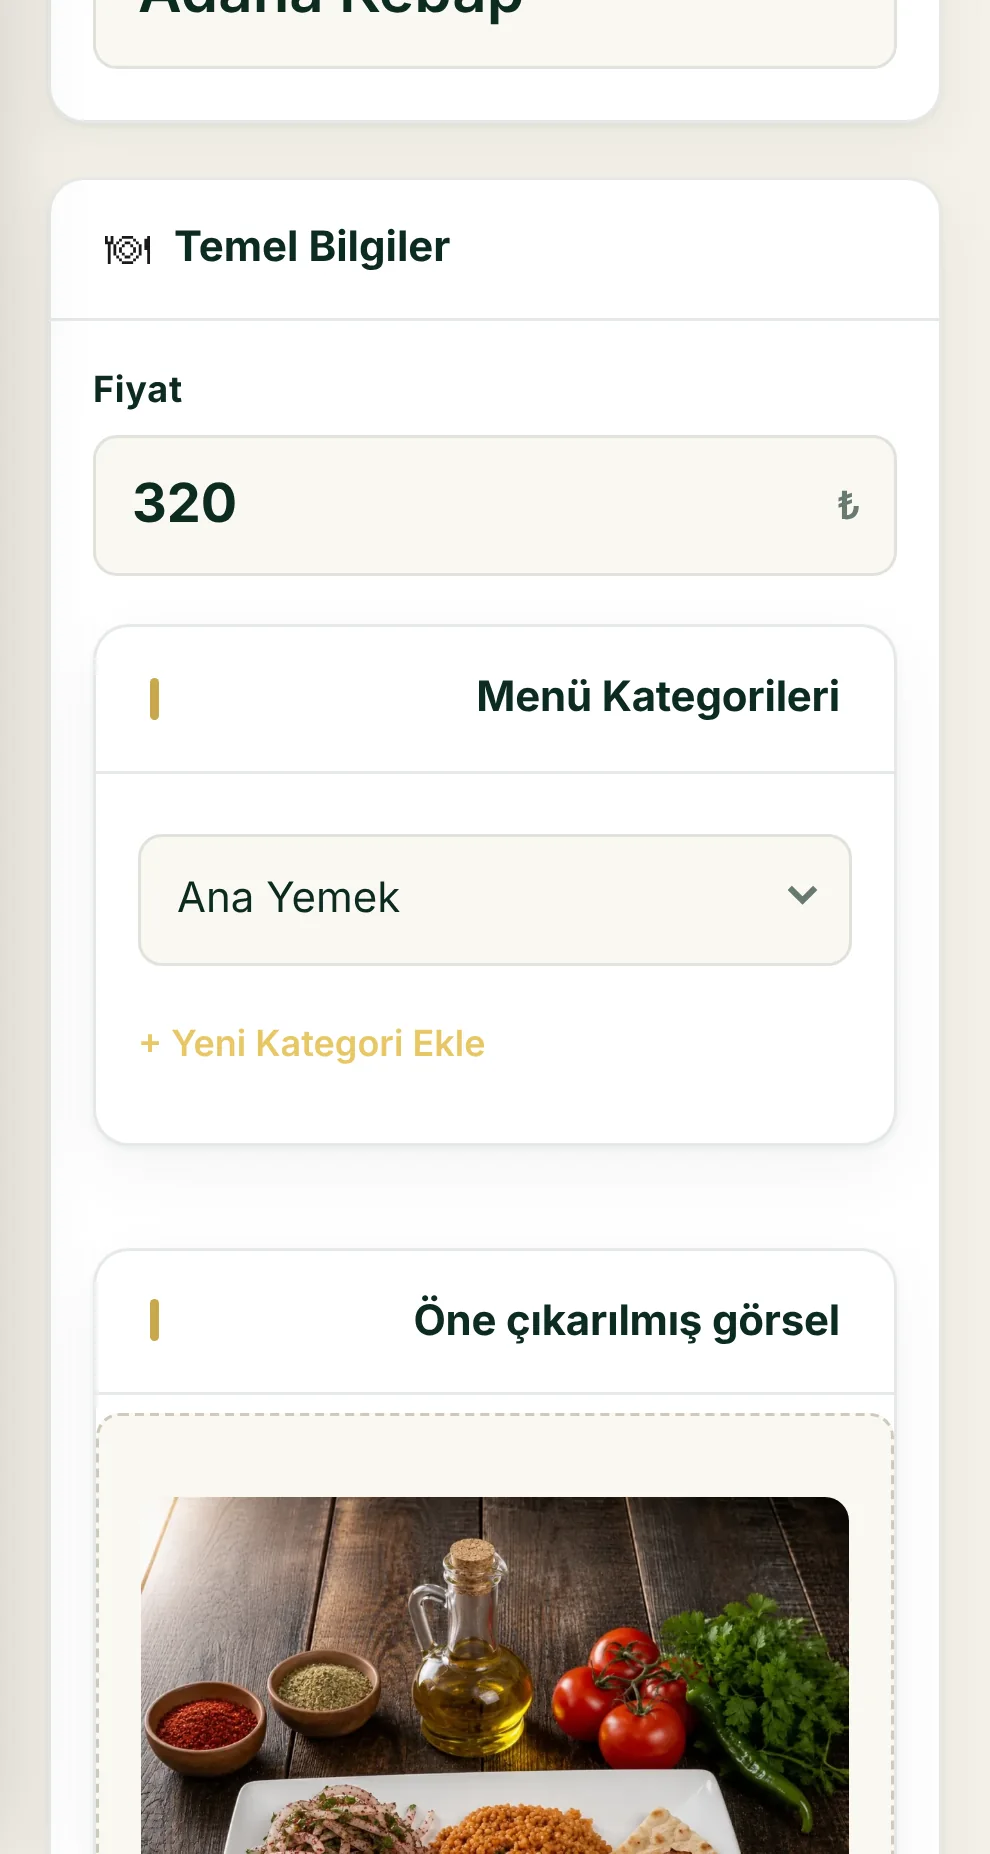
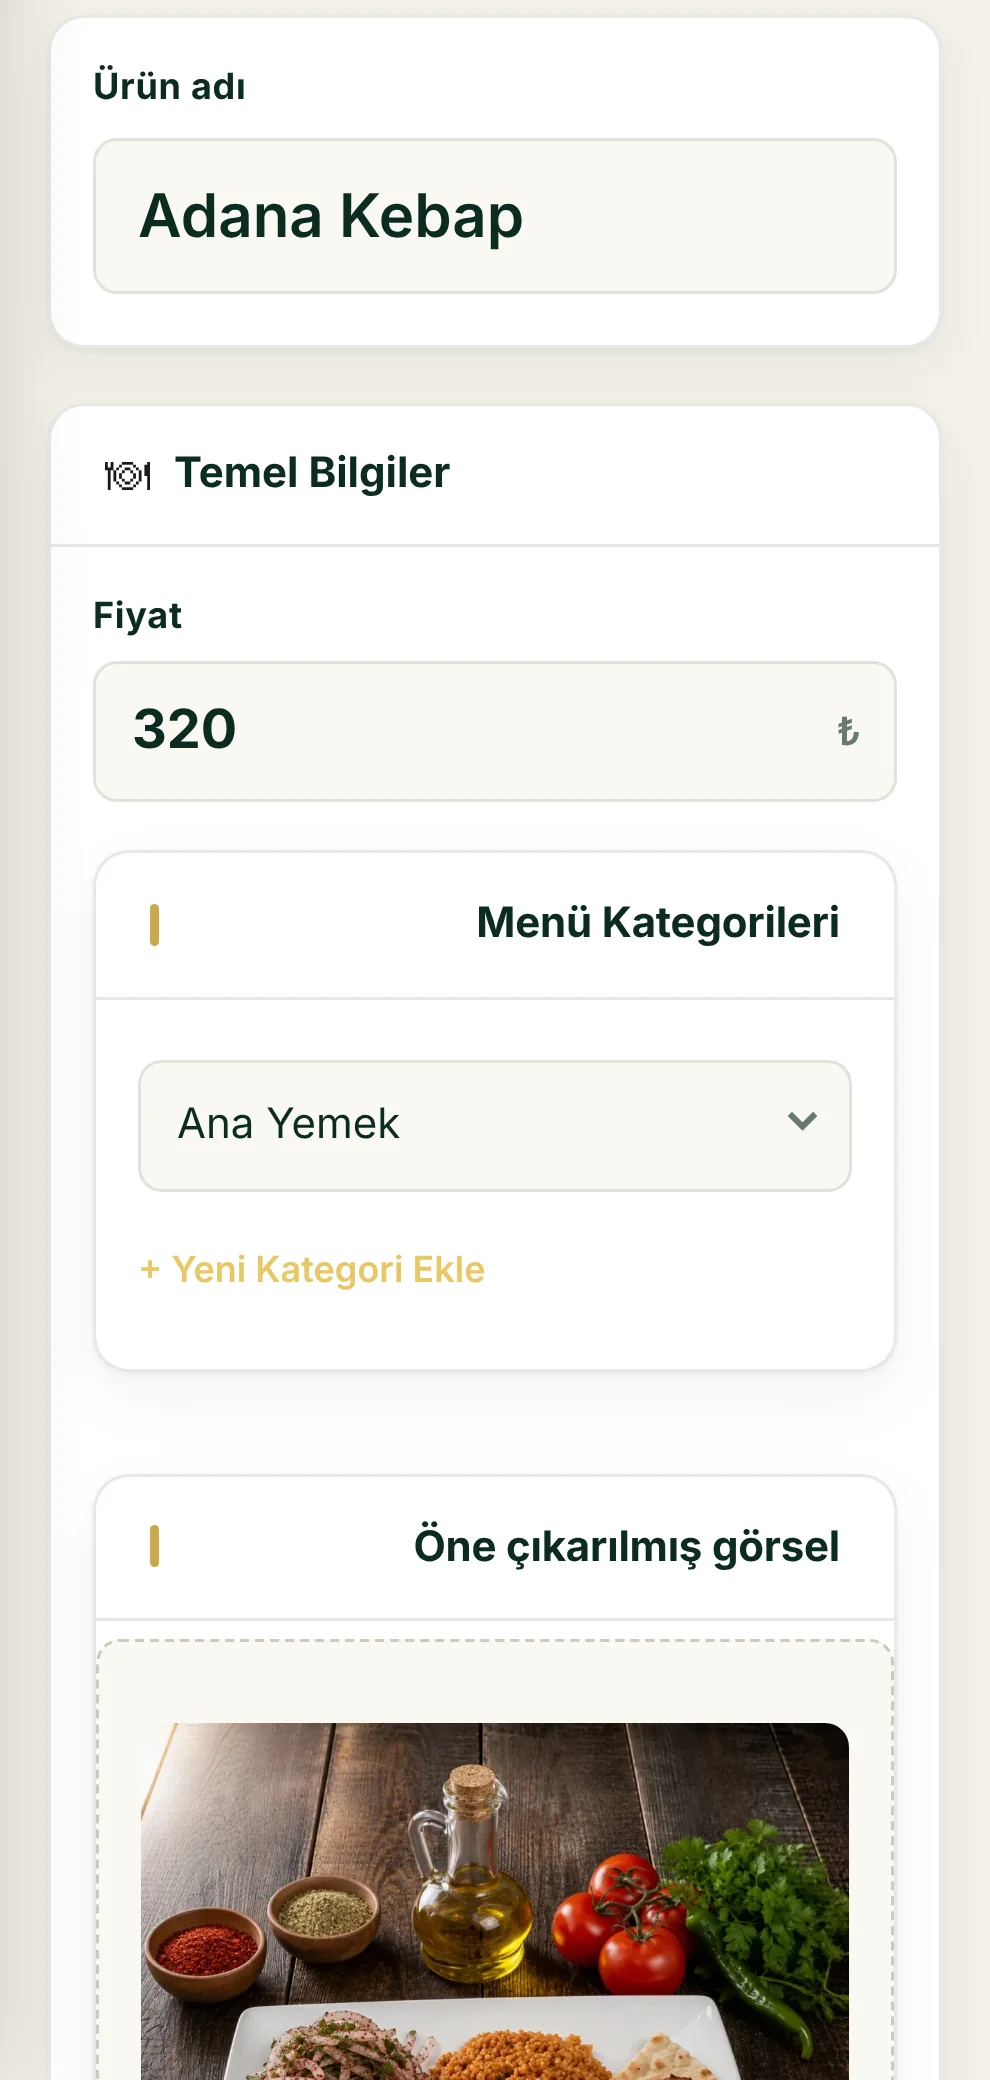
Restoran Menü: mobil Nasıl çalışır - kısa başlık, üste yaslı büyük telefon, 01/04 ve ilerleme çubuğu, kaydırma ipucu, düzgün kırpılmış panel ekranı
Claude-Session: https://claude.ai/code/session_01FBw9rV6ebgf9f6twCzCQ1c

diff --git a/moduller/restoran-menu/index.html b/moduller/restoran-menu/index.html
@@ -245,7 +245,7 @@
         <div class="qrmo-v3-glow" aria-hidden="true"></div>
         <div class="qrmo-v3-stage">
           <figure class="qrmo-v3-screen" data-v3-screen="0" data-kind="window" role="img" aria-label="Sizin yönetim ekranınız: Ürün düzenleme ekranı: ürün adı, fiyat, kategori ve ürün fotoğrafı, ekran 1 / 4" aria-hidden="true">
-            <div class="qrmo-v3-fit"><div class="qm-win qm-win--shot"><div class="qm-win-bar"><span class="qm-win-dots"><i></i><i></i><i></i></span><span class="qm-win-t">Menü Yönetimi › Ürünü düzenle</span></div><picture><source media="(max-width: 639px)" srcset="../../assets/modules/restoran-menu/m-panel-urun-duzenle.webp" width="990" height="1854"><img class="qm-shot" src="../../assets/modules/restoran-menu/panel-urun-duzenle.webp" width="1568" height="1344" alt="" decoding="async" loading="eager" draggable="false"></picture></div></div>
+            <div class="qrmo-v3-fit"><div class="qm-win qm-win--shot"><div class="qm-win-bar"><span class="qm-win-dots"><i></i><i></i><i></i></span><span class="qm-win-t">Menü Yönetimi › Ürünü düzenle</span></div><picture><source media="(max-width: 639px)" srcset="../../assets/modules/restoran-menu/m-panel-urun-duzenle.webp" width="990" height="2080"><img class="qm-shot" src="../../assets/modules/restoran-menu/panel-urun-duzenle.webp" width="1568" height="1344" alt="" decoding="async" loading="eager" draggable="false"></picture></div></div>
             <span class="qrmo-v3-chip qrmo-v3-chip--a" aria-hidden="true"><svg viewBox="0 0 24 24" fill="none" stroke="currentColor" stroke-width="2.6" stroke-linecap="round" stroke-linejoin="round" aria-hidden="true" focusable="false"><path d="m5 12.5 4.5 4.5L19 7.5"/></svg><span>Fiyat panelde değişir</span></span>
             <span class="qrmo-v3-chip qrmo-v3-chip--b" aria-hidden="true"><svg viewBox="0 0 24 24" fill="none" stroke="currentColor" stroke-width="2.6" stroke-linecap="round" stroke-linejoin="round" aria-hidden="true" focusable="false"><path d="m5 12.5 4.5 4.5L19 7.5"/></svg><span>CSV ile toplu aktarım</span></span>
           </figure>
@@ -309,9 +309,10 @@
       <div class="qrmo-v3-flow-panel">
         <header class="qrmo-v3-flow-head">
           <p class="qrmo-v3-eyebrow">NASIL ÇALIŞIR</p>
-          <h2 class="qrmo-v3-h2" id="qrmo-v3-flow-h">Menünüzü yönetin, misafir güncel halini görsün</h2>
+          <h2 class="qrmo-v3-h2" id="qrmo-v3-flow-h">Panelde değiştirin, masada görünsün.</h2>
         </header>
         <div class="qrmo-v3-flow-grid">
+          <p class="qrmo-v3-fhint" aria-hidden="true">Kaydırın <svg viewBox="0 0 24 24" fill="none" stroke="currentColor" stroke-width="2" stroke-linecap="round" stroke-linejoin="round"><path d="M12 5v14M6 13l6 6 6-6"/></svg></p>
           <ol class="qrmo-v3-steps">
             <li class="qrmo-v3-step is-active" data-v3-step="0" tabindex="0">
               <span class="qrmo-v3-step-n" aria-hidden="true">01<span class="qrmo-v3-step-who"><i class="qrmo-v3-sep"> · </i>SİZ · YÖNETİM PANELİ</span></span>
@@ -343,7 +344,7 @@
         <div class="qrmo-v3-glow" aria-hidden="true"></div>
         <div class="qrmo-v3-stage">
           <figure class="qrmo-v3-screen is-active" data-v3-screen="0" data-kind="window" role="img" aria-label="Sizin yönetim ekranınız: Ürün düzenleme ekranı: ürün adı, fiyat, kategori ve ürün fotoğrafı, ekran 1 / 4">
-            <div class="qrmo-v3-fit"><div class="qm-win qm-win--shot"><div class="qm-win-bar"><span class="qm-win-dots"><i></i><i></i><i></i></span><span class="qm-win-t">Menü Yönetimi › Ürünü düzenle</span></div><picture><source media="(max-width: 639px)" srcset="../../assets/modules/restoran-menu/m-panel-urun-duzenle.webp" width="990" height="1854"><img class="qm-shot" src="../../assets/modules/restoran-menu/panel-urun-duzenle.webp" width="1568" height="1344" alt="" decoding="async" loading="eager" draggable="false"></picture></div></div>
+            <div class="qrmo-v3-fit"><div class="qm-win qm-win--shot"><div class="qm-win-bar"><span class="qm-win-dots"><i></i><i></i><i></i></span><span class="qm-win-t">Menü Yönetimi › Ürünü düzenle</span></div><picture><source media="(max-width: 639px)" srcset="../../assets/modules/restoran-menu/m-panel-urun-duzenle.webp" width="990" height="2080"><img class="qm-shot" src="../../assets/modules/restoran-menu/panel-urun-duzenle.webp" width="1568" height="1344" alt="" decoding="async" loading="eager" draggable="false"></picture></div></div>
           </figure>
           <figure class="qrmo-v3-screen" data-v3-screen="1" data-kind="phone" role="img" aria-label="Misafirin telefonunda: menü listesi: kampanya görseli, arama, filtre ve kategoriler, ekran 2 / 4" aria-hidden="true">
             <div class="qrmo-v3-fit"><div class="qm-phone qm-phone--shot"><img class="qm-shot" src="../../assets/modules/restoran-menu/menu-liste.webp" width="780" height="1560" alt="" decoding="async" loading="eager" draggable="false"></div></div>
@@ -361,6 +362,7 @@
         </div>
         <p class="qrmo-v3-note">Gerçek ekran görüntüsü · örnek restoran verisi</p>
       </div>
+            <div class="qrmo-v3-fprog" aria-hidden="true"><span class="qrmo-v3-fprog-n"><b data-fprog-cur>01</b> / 04</span><span class="qrmo-v3-fprog-bar"><i data-fprog-bar></i></span></div>
           </div>
         </div>
       </div>

diff --git a/moduller/module-apple.css b/moduller/module-apple.css
@@ -459,3 +459,34 @@ body.qrmo-apple .qrmo-v3-spoke-img picture, body.qrmo-apple .qrmo-mod-tile-img p
   /* Sahne içi giriş animasyonu kapalı (yapışkan alanda titreme yapıyordu) */
   .v3-js body.qrmo-apple .qrmo-v3-flow .ap-r { opacity: 1; transform: none; transition: none; animation: none; }
 }
+
+/* ---------- Mobil sahne v3: üste yaslı, büyük telefon, ilerleme ve kaydırma ipucu ---------- */
+.qrmo-v3-fprog, .qrmo-v3-fhint { display: none; }
+@media (max-width: 767px) {
+  body.qrmo-apple .qrmo-v3-flow > .qrmo-mod-inner { justify-content: flex-start; padding-top: clamp(14px, 3svh, 26px); }
+  body.qrmo-apple .qrmo-v3-flow-panel { justify-content: flex-start; gap: clamp(12px, 2.4svh, 22px); }
+  body.qrmo-apple .qrmo-v3-flow-head .qrmo-v3-h2 { font-size: 21px; }
+  body.qrmo-apple .qrmo-v3-flow { --fw: min(62vw, 250px, calc((100svh - var(--gh) - 190px) / 2)); }
+  body.qrmo-apple .qrmo-v3-flow-grid { grid-template-columns: var(--fw) minmax(0, 1fr); align-items: center; }
+  .qrmo-v3-flow .qrmo-v3-bar { display: none; }
+  .qrmo-v3-fprog { display: grid; gap: 8px; margin-top: 12px; }
+  .qrmo-v3-fprog-n { color: rgba(244, 241, 232, .6); font-size: 12px; font-weight: 700; letter-spacing: .12em; font-variant-numeric: tabular-nums; }
+  .qrmo-v3-fprog-n b { color: var(--qm-gold-light); font-weight: 800; }
+  .qrmo-v3-fprog-bar { display: block; height: 3px; overflow: hidden; border-radius: 3px; background: rgba(244, 241, 232, .14); }
+  .qrmo-v3-fprog-bar i { display: block; height: 100%; background: var(--qm-gold-light); transform-origin: left; transform: scaleX(0); }
+  body.qrmo-apple .qrmo-v3-step-n { display: none; }
+  .qrmo-v3-fhint { grid-column: 2; grid-row: 2; display: inline-flex; align-items: center; gap: 6px; margin: 10px 0 0; color: rgba(244, 241, 232, .65); font-size: 13px; font-weight: 700; transition: opacity .3s ease; }
+  .qrmo-v3-fhint svg { width: 16px; height: 16px; animation: apHint 1.6s ease-in-out infinite; }
+  @keyframes apHint { 0%, 100% { transform: translateY(-2px); } 50% { transform: translateY(3px); } }
+  .qrmo-v3-flow.is-moved .qrmo-v3-fhint { opacity: 0; }
+  body.qrmo-apple .qrmo-v3-steps { grid-column: 2; grid-row: 1; }
+}
+@media (max-width: 767px) and (prefers-reduced-motion: reduce) { .qrmo-v3-fhint svg { animation: none; } }
+@media (max-width: 767px) {
+  body.qrmo-apple .qrmo-v3-step-n { display: block; font-size: 0; margin-bottom: 8px; }
+  body.qrmo-apple .qrmo-v3-step-who { font-size: 10.5px; margin: 0; }
+  body.qrmo-apple .qrmo-v3-flow { --fw: min(54vw, 240px, calc((100svh - var(--gh) - 190px) / 2)); }
+  body.qrmo-apple .qrmo-v3-step h3 { font-size: 19px; overflow-wrap: anywhere; hyphens: auto; }
+  body.qrmo-apple .qrmo-v3-step p { font-size: 14.5px; }
+}
+@media (max-width: 767px) { .qrmo-v3-fhint { grid-row: 1; align-self: end; margin: 0 0 4px; } }

diff --git a/moduller/module-data.js b/moduller/module-data.js
@@ -102,7 +102,7 @@
         faq: ["qrmo-faq-q-urun-nasil-eklenir", "qrmo-faq-q-fiyat-nasil-degistirilir", "qrmo-faq-q-tukendi-urun", "qrmo-faq-q-csv-aktarim", "qrmo-faq-q-alerjen-gosterimi", "qrmo-faq-q-uygulama-gerekir-mi"],
         order: ["hero", "answer", "gaps", "story", "stage", "capabilities", "details", "related", "closing"],
         flow: {
-          title: "Menünüzü yönetin, misafir güncel halini görsün",
+          title: "Panelde değiştirin, masada görünsün.",
           steps: [
             { screen: 0, who: "SİZ · YÖNETİM PANELİ", t: "Panelde ürünü düzenleyin", d: "Fiyatı, kalorisini ve alerjenlerini yazın, kaydedin.", ms: { t: "Panelde düzenleyin", d: "Fiyat, kalori, alerjen: yazın, kaydedin." },  points: ["Ad, fiyat, kategori ve fotoğraf tek ekranda", "14 alerjen ve besin değerleri", "Yüzlerce ürünü CSV ile tek seferde yükleyin"] },
             { screen: 1, who: "MİSAFİR · TELEFON", t: "Misafir menüyü telefonunda açar", d: "QR kodu okutur; uygulama indirmeden güncel menüyü görür.", ms: { t: "Telefonda açılır", d: "QR’ı okutur, uygulama indirmez." },  points: ["Masadaki QR kodu okutması yeterli", "Uygulama indirmek gerekmez", "Her açılışta menünün güncel hali gelir"] },
@@ -259,7 +259,7 @@
             frame: "scene", layout: "duo",
             alt: "Temsili arayüz: solda ürün düzenleme ekranında Mercimek Çorbası’nın fiyatı, kategorisi, alerjeni ve rozetleri; sağda aynı ürünün müşteri telefonundaki menüde görünümü.",
             items: [
-              { frame: "shot", kind: "window", src: "../../assets/modules/restoran-menu/panel-urun-duzenle.webp", m: { src: "../../assets/modules/restoran-menu/m-panel-urun-duzenle.webp", w: 990, h: 1854 }, w: 1568, h: 1344, alt: "Ürün düzenleme ekranı: ürün adı, fiyat, kategori ve ürün fotoğrafı", title: "Menü Yönetimi › Ürünü düzenle" },
+              { frame: "shot", kind: "window", src: "../../assets/modules/restoran-menu/panel-urun-duzenle.webp", m: { src: "../../assets/modules/restoran-menu/m-panel-urun-duzenle.webp", w: 990, h: 2080 }, w: 1568, h: 1344, alt: "Ürün düzenleme ekranı: ürün adı, fiyat, kategori ve ürün fotoğrafı", title: "Menü Yönetimi › Ürünü düzenle" },
               { frame: "shot", kind: "phone", src: "../../assets/modules/restoran-menu/menu-liste.webp", w: 780, h: 1560, alt: "menü listesi: kampanya görseli, arama, filtre ve kategoriler" }
             ]
           }

diff --git a/moduller/module-apple.js b/moduller/module-apple.js
@@ -57,19 +57,25 @@
     var fDots = [].slice.call(flowSec.querySelectorAll("[data-v3-dot]"));
     var fShow = flowSec.querySelector("[data-v3-show]");
     var fCur = -1;
+    var fBar = flowSec.querySelector("[data-fprog-bar]");
+    var fNum = flowSec.querySelector("[data-fprog-cur]");
     var ghVal = parseFloat(getComputedStyle(document.documentElement).getPropertyValue("--qrmo-gh-h")) || 72;
     var ghH = function () { return ghVal; };
     var fRange = function () { return Math.max(1, flowSec.offsetHeight - fInner.offsetHeight); };
     var fPin = function () {
       if (!mqF.matches || !fSteps.length) return;
       var r = flowSec.getBoundingClientRect();
-      var p = clamp((ghH() - r.top) / fRange()) * fSteps.length;
+      var raw = clamp((ghH() - r.top) / fRange());
+      if (fBar) fBar.style.transform = "scaleX(" + raw.toFixed(3) + ")";
+      flowSec.classList.toggle("is-moved", raw > 0.04);
+      var p = raw * fSteps.length;
       var idx = Math.min(fSteps.length - 1, Math.floor(p));
       /* Sınırda gidip gelmeyi önle: komşu adıma geçmek için sınırı %12 aşmak gerekir */
       if (fCur > -1 && Math.abs(idx - fCur) === 1 && Math.abs(p - Math.max(idx, fCur)) < 0.12) return;
       if (idx === fCur) return;
       fCur = idx;
       fSteps.forEach(function (st, i) { st.classList.toggle("is-active", i === idx); });
+      if (fNum) fNum.textContent = (idx < 9 ? "0" : "") + (idx + 1);
       if (fShow && fShow.__v3) fShow.__v3.go(parseInt(fSteps[idx].getAttribute("data-v3-step"), 10) || 0);
     };
     var fTick = false;

diff --git a/moduller/build.js b/moduller/build.js
@@ -986,6 +986,7 @@ const SECTION = {
           <h2 class="qrmo-v3-h2" id="qrmo-v3-flow-h">${esc(f.title)}</h2>
         </header>
         <div class="qrmo-v3-flow-grid">
+          <p class="qrmo-v3-fhint" aria-hidden="true">Kaydırın <svg viewBox="0 0 24 24" fill="none" stroke="currentColor" stroke-width="2" stroke-linecap="round" stroke-linejoin="round"><path d="M12 5v14M6 13l6 6 6-6"/></svg></p>
           <ol class="qrmo-v3-steps">${join(f.steps, (st, i) => {
             if (st.screen >= n) problems.push(`${m.slug}: flow adımı ${i + 1} ekran ${st.screen} yok (${n} ekran)`);
             return `
@@ -999,6 +1000,7 @@ const SECTION = {
           </ol>
           <div class="qrmo-v3-flow-dev">
             ${showcase(m, { mode: "ctrl", id: "flow" })}
+            <div class="qrmo-v3-fprog" aria-hidden="true"><span class="qrmo-v3-fprog-n"><b data-fprog-cur>01</b> / ${pad(f.steps.length)}</span><span class="qrmo-v3-fprog-bar"><i data-fprog-bar></i></span></div>
           </div>
         </div>
       </div>

diff --git a/moduller/menu-asistani/index.html b/moduller/menu-asistani/index.html
@@ -269,6 +269,7 @@
           <h2 class="qrmo-v3-h2" id="qrmo-v3-flow-h">Misafirin sorusu garson beklemeden yanıtlanır</h2>
         </header>
         <div class="qrmo-v3-flow-grid">
+          <p class="qrmo-v3-fhint" aria-hidden="true">Kaydırın <svg viewBox="0 0 24 24" fill="none" stroke="currentColor" stroke-width="2" stroke-linecap="round" stroke-linejoin="round"><path d="M12 5v14M6 13l6 6 6-6"/></svg></p>
           <ol class="qrmo-v3-steps">
             <li class="qrmo-v3-step is-active" data-v3-step="0" tabindex="0">
               <span class="qrmo-v3-step-n" aria-hidden="true">01</span>
@@ -306,6 +307,7 @@
         </div>
         <p class="qrmo-v3-note">Temsili arayüz · örnek içerik</p>
       </div>
+            <div class="qrmo-v3-fprog" aria-hidden="true"><span class="qrmo-v3-fprog-n"><b data-fprog-cur>01</b> / 03</span><span class="qrmo-v3-fprog-bar"><i data-fprog-bar></i></span></div>
           </div>
         </div>
       </div>

diff --git a/moduller/qr-analytics/index.html b/moduller/qr-analytics/index.html
@@ -269,6 +269,7 @@
           <h2 class="qrmo-v3-h2" id="qrmo-v3-flow-h">Menünüzün nasıl kullanıldığını görün</h2>
         </header>
         <div class="qrmo-v3-flow-grid">
+          <p class="qrmo-v3-fhint" aria-hidden="true">Kaydırın <svg viewBox="0 0 24 24" fill="none" stroke="currentColor" stroke-width="2" stroke-linecap="round" stroke-linejoin="round"><path d="M12 5v14M6 13l6 6 6-6"/></svg></p>
           <ol class="qrmo-v3-steps">
             <li class="qrmo-v3-step is-active" data-v3-step="0" tabindex="0">
               <span class="qrmo-v3-step-n" aria-hidden="true">01</span>
@@ -306,6 +307,7 @@
         </div>
         <p class="qrmo-v3-note">Temsili arayüz · örnek içerik</p>
       </div>
+            <div class="qrmo-v3-fprog" aria-hidden="true"><span class="qrmo-v3-fprog-n"><b data-fprog-cur>01</b> / 03</span><span class="qrmo-v3-fprog-bar"><i data-fprog-bar></i></span></div>
           </div>
         </div>
       </div>

diff --git a/moduller/akilli-filtreleme/index.html b/moduller/akilli-filtreleme/index.html
@@ -269,6 +269,7 @@
           <h2 class="qrmo-v3-h2" id="qrmo-v3-flow-h">Misafir aradığını saniyeler içinde bulur</h2>
         </header>
         <div class="qrmo-v3-flow-grid">
+          <p class="qrmo-v3-fhint" aria-hidden="true">Kaydırın <svg viewBox="0 0 24 24" fill="none" stroke="currentColor" stroke-width="2" stroke-linecap="round" stroke-linejoin="round"><path d="M12 5v14M6 13l6 6 6-6"/></svg></p>
           <ol class="qrmo-v3-steps">
             <li class="qrmo-v3-step is-active" data-v3-step="0" tabindex="0">
               <span class="qrmo-v3-step-n" aria-hidden="true">01</span>
@@ -306,6 +307,7 @@
         </div>
         <p class="qrmo-v3-note">Temsili arayüz · örnek içerik</p>
       </div>
+            <div class="qrmo-v3-fprog" aria-hidden="true"><span class="qrmo-v3-fprog-n"><b data-fprog-cur>01</b> / 03</span><span class="qrmo-v3-fprog-bar"><i data-fprog-bar></i></span></div>
           </div>
         </div>
       </div>

diff --git a/moduller/menu-muhendisligi/index.html b/moduller/menu-muhendisligi/index.html
@@ -266,6 +266,7 @@
           <h2 class="qrmo-v3-h2" id="qrmo-v3-flow-h">Hangi ürün gerçekten kazandırıyor?</h2>
         </header>
         <div class="qrmo-v3-flow-grid">
+          <p class="qrmo-v3-fhint" aria-hidden="true">Kaydırın <svg viewBox="0 0 24 24" fill="none" stroke="currentColor" stroke-width="2" stroke-linecap="round" stroke-linejoin="round"><path d="M12 5v14M6 13l6 6 6-6"/></svg></p>
           <ol class="qrmo-v3-steps">
             <li class="qrmo-v3-step is-active" data-v3-step="1" tabindex="0">
               <span class="qrmo-v3-step-n" aria-hidden="true">01</span>
@@ -300,6 +301,7 @@
         </div>
         <p class="qrmo-v3-note">Temsili arayüz · örnek içerik</p>
       </div>
+            <div class="qrmo-v3-fprog" aria-hidden="true"><span class="qrmo-v3-fprog-n"><b data-fprog-cur>01</b> / 03</span><span class="qrmo-v3-fprog-bar"><i data-fprog-bar></i></span></div>
           </div>
         </div>
       </div>

diff --git a/moduller/yorum-geri-bildirim/index.html b/moduller/yorum-geri-bildirim/index.html
@@ -269,6 +269,7 @@
           <h2 class="qrmo-v3-h2" id="qrmo-v3-flow-h">Misafirin deneyimini sistemli öğrenin</h2>
         </header>
         <div class="qrmo-v3-flow-grid">
+          <p class="qrmo-v3-fhint" aria-hidden="true">Kaydırın <svg viewBox="0 0 24 24" fill="none" stroke="currentColor" stroke-width="2" stroke-linecap="round" stroke-linejoin="round"><path d="M12 5v14M6 13l6 6 6-6"/></svg></p>
           <ol class="qrmo-v3-steps">
             <li class="qrmo-v3-step is-active" data-v3-step="0" tabindex="0">
               <span class="qrmo-v3-step-n" aria-hidden="true">01</span>
@@ -306,6 +307,7 @@
         </div>
         <p class="qrmo-v3-note">Temsili arayüz · örnek içerik</p>
       </div>
+            <div class="qrmo-v3-fprog" aria-hidden="true"><span class="qrmo-v3-fprog-n"><b data-fprog-cur>01</b> / 03</span><span class="qrmo-v3-fprog-bar"><i data-fprog-bar></i></span></div>
           </div>
         </div>
       </div>

diff --git a/moduller/qr-masa/index.html b/moduller/qr-masa/index.html
@@ -272,6 +272,7 @@
           <h2 class="qrmo-v3-h2" id="qrmo-v3-flow-h">Masalarınız dakikalar içinde hazır</h2>
         </header>
         <div class="qrmo-v3-flow-grid">
+          <p class="qrmo-v3-fhint" aria-hidden="true">Kaydırın <svg viewBox="0 0 24 24" fill="none" stroke="currentColor" stroke-width="2" stroke-linecap="round" stroke-linejoin="round"><path d="M12 5v14M6 13l6 6 6-6"/></svg></p>
           <ol class="qrmo-v3-steps">
             <li class="qrmo-v3-step is-active" data-v3-step="2" tabindex="0">
               <span class="qrmo-v3-step-n" aria-hidden="true">01</span>
@@ -317,6 +318,7 @@
         </div>
         <p class="qrmo-v3-note">Temsili arayüz · örnek içerik</p>
       </div>
+            <div class="qrmo-v3-fprog" aria-hidden="true"><span class="qrmo-v3-fprog-n"><b data-fprog-cur>01</b> / 04</span><span class="qrmo-v3-fprog-bar"><i data-fprog-bar></i></span></div>
           </div>
         </div>
       </div>

diff --git a/moduller/masa-oturum-guvenligi/index.html b/moduller/masa-oturum-guvenligi/index.html
@@ -272,6 +272,7 @@
           <h2 class="qrmo-v3-h2" id="qrmo-v3-flow-h">Masa oturumu kontrolünüzde kalır</h2>
         </header>
         <div class="qrmo-v3-flow-grid">
+          <p class="qrmo-v3-fhint" aria-hidden="true">Kaydırın <svg viewBox="0 0 24 24" fill="none" stroke="currentColor" stroke-width="2" stroke-linecap="round" stroke-linejoin="round"><path d="M12 5v14M6 13l6 6 6-6"/></svg></p>
           <ol class="qrmo-v3-steps">
             <li class="qrmo-v3-step is-active" data-v3-step="0" tabindex="0">
               <span class="qrmo-v3-step-n" aria-hidden="true">01</span>
@@ -317,6 +318,7 @@
         </div>
         <p class="qrmo-v3-note">Temsili arayüz · örnek içerik</p>
       </div>
+            <div class="qrmo-v3-fprog" aria-hidden="true"><span class="qrmo-v3-fprog-n"><b data-fprog-cur>01</b> / 04</span><span class="qrmo-v3-fprog-bar"><i data-fprog-bar></i></span></div>
           </div>
         </div>
       </div>
